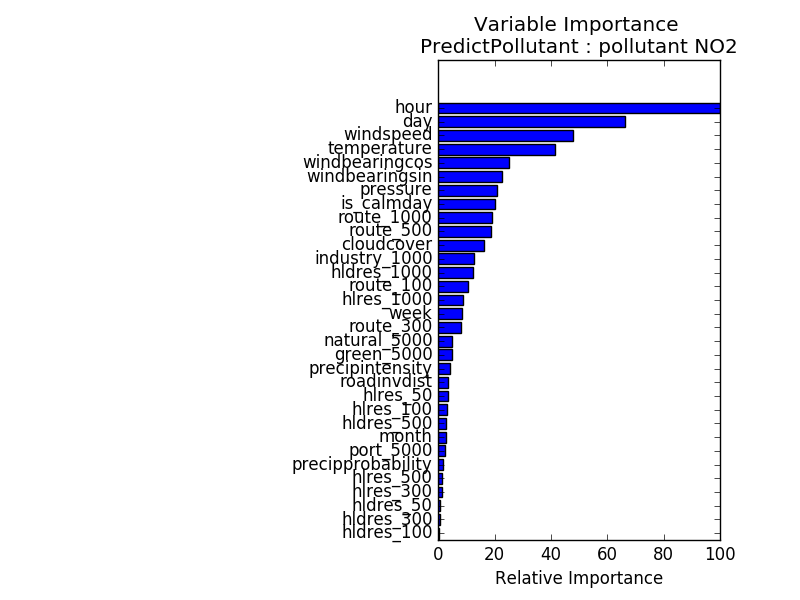
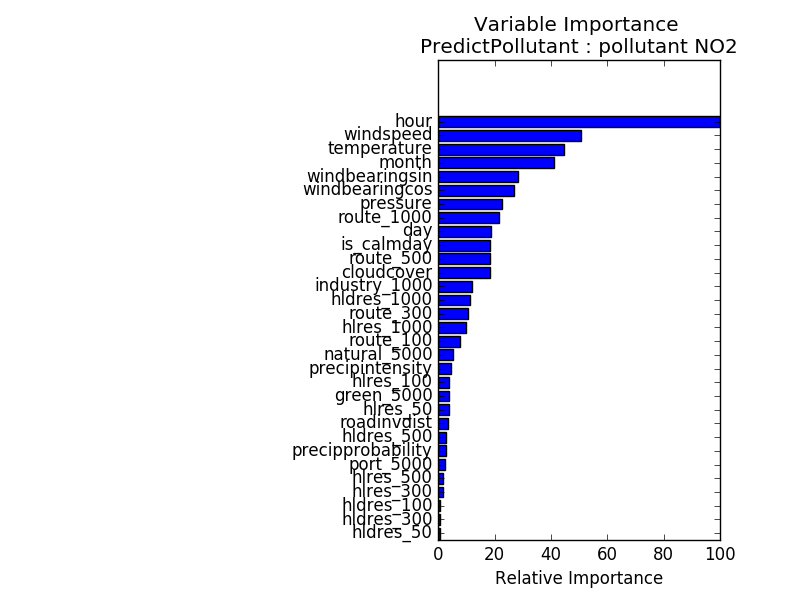
erer
erre

Changed region(s): [[0.3438, 0.24, 0.7188, 0.9], [0.5, 0.15, 0.9062, 0.24]]

diff --git a/src/separation.py b/src/separation.py
@@ -212,11 +212,11 @@ gFeatureNames = ['hlres_50', 'green_5000', 'hldres_50', 'route_100', 'hlres_1000
 fFeatureNames = ['temperature', 'precipprobability', 'precipintensity',
    'windbearingcos','windbearingsin', 'windspeed','cloudcover',  'pressure', 'is_calmday', 'hour', 'day', 'month']
 
-params = {'n_estimators': 50, 'max_depth': 3, 'min_samples_split': 3,
+params = {'n_estimators': 400, 'max_depth': 8, 'min_samples_split': 3,
           'learning_rate': 0.01, 'loss': 'ls'}
-paramsf = {'n_estimators': 50, 'max_depth': 3, 'min_samples_split': 2,
+paramsf = {'n_estimators': 400, 'max_depth': 8, 'min_samples_split': 3,
           'learning_rate': 0.01, 'loss': 'ls'}
-paramsg = {'n_estimators': 50, 'max_depth': 3, 'min_samples_split': 2,
+paramsg = {'n_estimators': 400, 'max_depth': 8, 'min_samples_split': 3,
           'learning_rate': 0.01, 'loss': 'ls'}
 
 hourSet = range(0,24);
@@ -270,9 +270,10 @@ def initG(data):
                 data.loc[getRows(s,h,day,False, data), 'g'] = np.max(data.loc[getRows(s,h,day,False, data), 'y']);
 
 def plotGraphG(data, calmday):
-    for s in station_idAll:
+    for s in station_idTrain:
         d = data[(data.station_id == s) & (data.is_calmday == calmday)];
-
+        if(len(d.index) < 168):
+            continue;
         d = d.drop_duplicates(subset = ['hour', 'day']);
         g = d.g.as_matrix();
         h = d.hour.as_matrix();
@@ -283,7 +284,8 @@ def plotGraphG(data, calmday):
 
         plt.figure();
         plt.plot(t,g, 'ro');
-    plt.show();
+        plt.title('station {0}'.format(s))
+
 
 def separation(dataTrainInit, dataTestInit, p, result):
 
@@ -315,7 +317,7 @@ def separation(dataTrainInit, dataTestInit, p, result):
     strain = getGFeatures(dataTrain);
     gFeatureNames = strain.columns;
     ytrain = dataTrain.y.as_matrix()
-    nIter = 6;
+    nIter = 4;
     for i in range(nIter):
         f = ensemble.GradientBoostingRegressor(**paramsf)
         g = ensemble.GradientBoostingRegressor(**paramsg)
@@ -393,12 +395,13 @@ else:
     # plt.show();
 
 
-    #result = predictPollutant(dataTrain, dataTest,  plotFeaturesInfluence = True, isTest = True);
-    #getStatLearningTest(result, dataTest);
+    result = predictPollutant(dataTrain, dataTest,  plotFeaturesInfluence = True, isTest = True);
+    getStatLearningTest(result, dataTest);
     result = separation(dataTrain, dataTest, 'NO2', result);
     getStatLearningTest(result, dataTest);
-    # result = separation(dataTrain, dataTest, 'PM10', result);
-    # getStatLearningTest(result, dataTest);
-    # result = separation(dataTrain, dataTest, 'PM2_5', result);
-    # getStatLearningTest(result, dataTest);
-    # plt.show();
+    plt.show();
+    result = separation(dataTrain, dataTest, 'PM10', result);
+    getStatLearningTest(result, dataTest);
+    result = separation(dataTrain, dataTest, 'PM2_5', result);
+    getStatLearningTest(result, dataTest);
+    plt.show();
